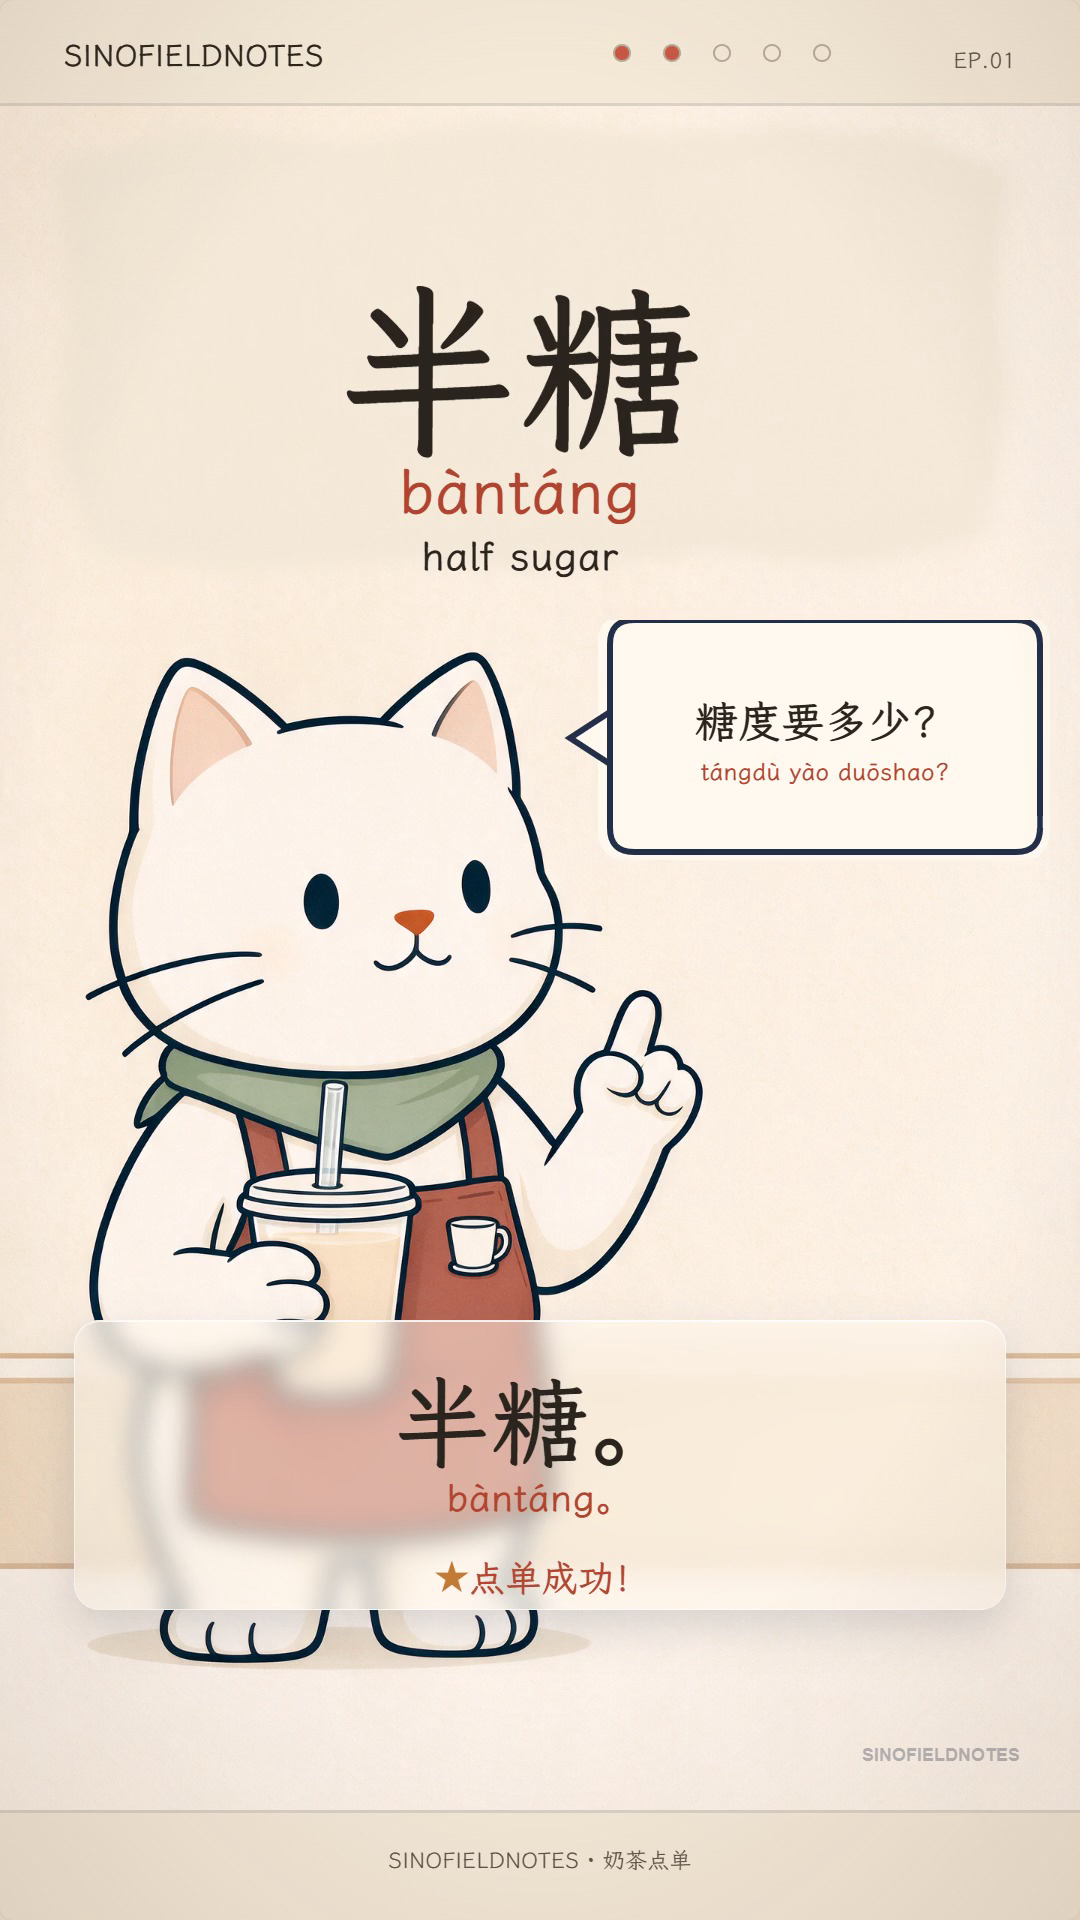
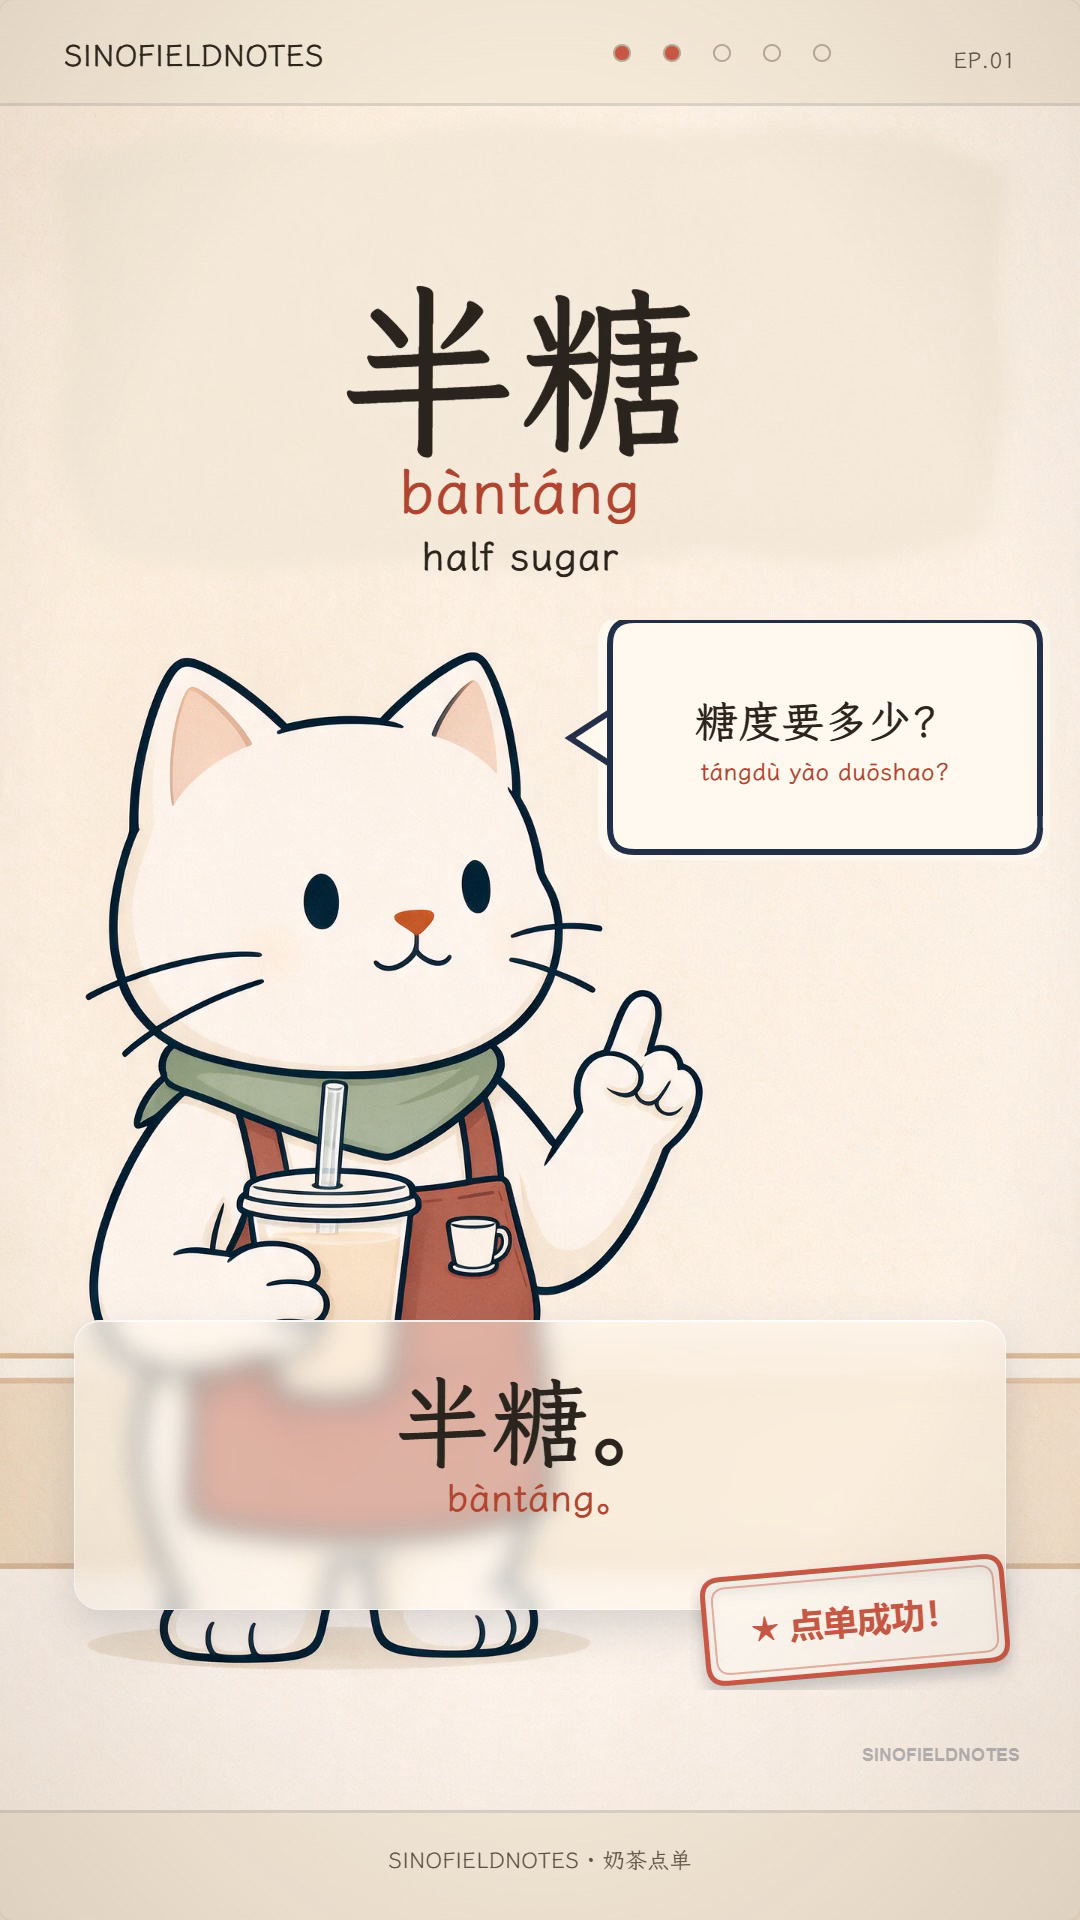
Move rewards into pop-out stamps

Changed region(s): [[0.6417, 0.8125, 0.9472, 0.9062], [0.3972, 0.8125, 0.5806, 0.8438]]

diff --git a/production/experiments/milk-tea-v3/extras/word.js b/production/experiments/milk-tea-v3/extras/word.js
@@ -316,11 +316,36 @@
     });
 
     if (data.reward) {
-      P.text('★', {
-        x: 452, y: 1552, w: 60, align: 'c', size: 34, color: 'orange', at: t3, mode: 'fade',
-      });
-      P.text(data.reward, {
-        x: 560, y: 1552, w: 320, align: 'c', size: 36, color: 'red', weight: 700, at: t3, mode: 'fade',
+      P.canvas(690, 1550, 330, 140, (ctx, lt) => {
+        ctx.clearRect(0, 0, 330, 140);
+        const k = PV.K(lt, t3, 0.32);
+        if (k <= 0) return;
+        const s = 0.68 + 0.32 * k;
+        ctx.save();
+        ctx.translate(165, 70);
+        ctx.rotate((-5 * Math.PI) / 180);
+        ctx.scale(s, s);
+        ctx.globalAlpha = Math.min(1, k * 1.6);
+        ctx.shadowColor = 'rgba(34,48,74,.22)';
+        ctx.shadowBlur = 14;
+        ctx.shadowOffsetY = 9;
+        ctx.fillStyle = 'rgba(255,249,239,.95)';
+        ctx.strokeStyle = '#C95845';
+        ctx.lineWidth = 5;
+        rr(ctx, -150, -52, 300, 104, 18);
+        ctx.fill();
+        ctx.stroke();
+        ctx.shadowColor = 'transparent';
+        ctx.strokeStyle = 'rgba(201,88,69,.45)';
+        ctx.lineWidth = 2;
+        rr(ctx, -141, -43, 282, 86, 14);
+        ctx.stroke();
+        ctx.fillStyle = '#C95845';
+        ctx.font = '700 34px "Microsoft YaHei", sans-serif';
+        ctx.textAlign = 'center';
+        ctx.textBaseline = 'middle';
+        ctx.fillText('★ ' + data.reward, 0, 4);
+        ctx.restore();
       });
     }
 
